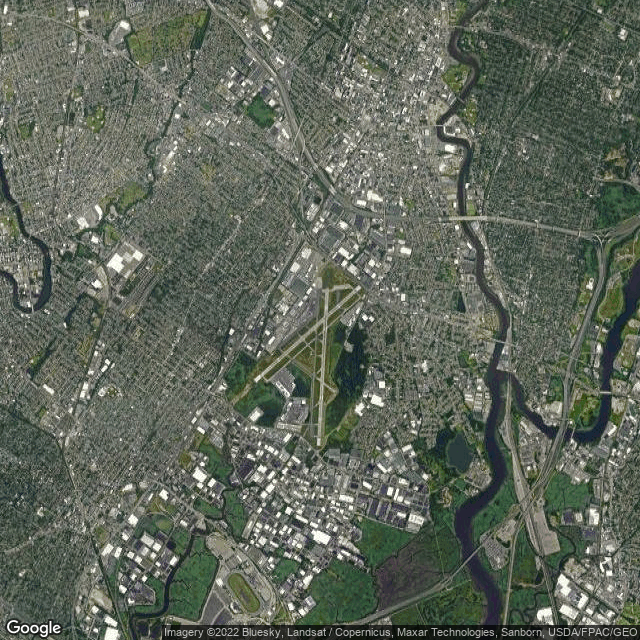
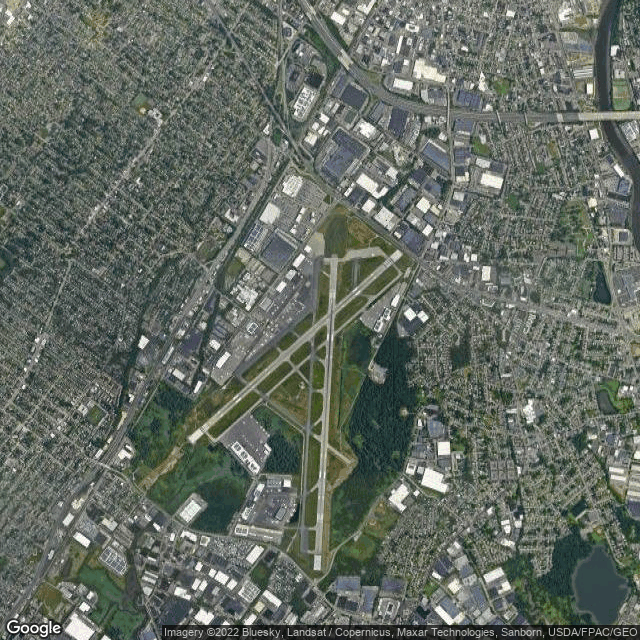
update API key

diff --git a/lib/satellite_imagery.py b/lib/satellite_imagery.py
@@ -3,7 +3,7 @@ import urllib.request
 import os, cv2, math
 import numpy as np
 endpoint = 'https://maps.googleapis.com/maps/api/staticmap?' #API calls are sent here. Will probably remain the same unless something happens
-api_key = 'AIzaSyAQO7DYu4G_-EFHYBlqa8G1hs3fiqJeSJs' # enter your API key
+api_key = '' # enter your API key
 maptype = 'satellite' #maps can also be retrieved, but helipads are only visible from satellite imagery
 size = [640,640] #Note max size of imagery is 640 x 640. As the desired image will typically be of this size, and can be altered after collection, this will be fixed.
 

diff --git a/main.py b/main.py
@@ -17,7 +17,7 @@ st.title('Airport Detection on Satellite Imagery')
 
 lat = st.sidebar.number_input("Latitude", value=40.853894)
 lon = st.sidebar.number_input("Longitude", value=-74.060218)
-zoom = st.sidebar.number_input("Zoom", value=15)
+zoom = st.sidebar.number_input("Zoom", value=14)
 
 #Display the coordinate on map
 df = pd.DataFrame({"lat": [lat], "lon": [lon], "zoom": [zoom]})
